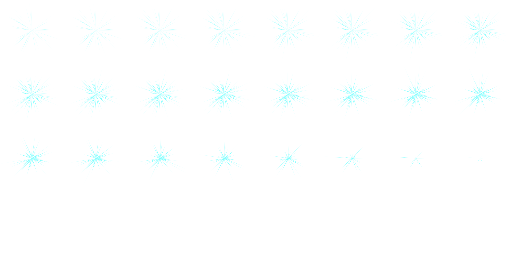
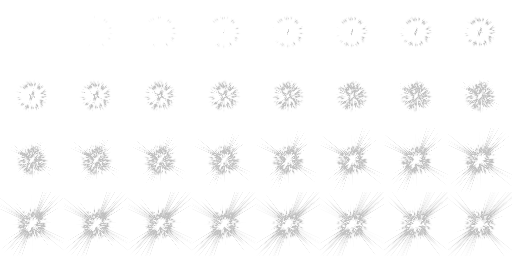
Updated the star animations to use the latest metro changes

diff --git a/models/star.rb b/models/star.rb
@@ -1,92 +1,67 @@
+module Metro
+  class Model
+
+    def create(model_name)
+      model_class = Metro::Model.model(model_name).constantize
+      mc = model_class.new
+      mc.scene = scene
+      mc.window = window
+      mc
+    end
+  end
+end
+
+
 class Star < Metro::Model
 
   property :position
   property :color
 
   class Forming < Metro::Model
-    property :animation, path: "implode.png", dimensions: Dimensions.of(64,64)
+    property :animation, path: "implode.png", dimensions: Dimensions.of(64,64), time_per_image: 25
     property :state, type: :text, default: "forming"
 
-    def start_time
-      @start_time ||= Gosu::milliseconds
+    def image
+      animation.image
     end
 
-    def current_time
-      Gosu::milliseconds
-    end
-
-    def lifetime
-      800
-    end
-    
     def completed?
-      (current_time - start_time) > lifetime
+      animation.complete?
     end
 
     def next
-      l = Living.new
-      l.window = window
-      l
+      create "Star::Living"
     end
-
-    def image
-      animation.image(start_time: start_time, image_time: 50)
-    end
-
   end
 
   class Living < Metro::Model
-    property :animation, path: "star3.png", dimensions: Dimensions.of(64,64)
+    property :animation, path: "living.png", dimensions: Dimensions.of(64,64), time_per_image: 100
     property :state, type: :text, default: "living"
 
-    def next
-      c = Collapsed.new
-      c.window = window
-      c
-    end
-    
-    def start_time
-      @start_time ||= Gosu::milliseconds
+    def image
+      animation.image
     end
 
-    def image
-      animation.image(start_time: start_time, image_time: 50)
+    def next
+      create "Star::Collapsed"
     end
-    
   end
 
   class Collapsed < Metro::Model
-    property :animation, path: "star-pickup.png", dimensions: Dimensions.of(64,64)
+    property :animation, path: "explode.png", dimensions: Dimensions.of(64,64), time_per_image: 25
     property :state, type: :text, default: "collapsed"
 
-    def start_time
-      @start_time ||= Gosu::milliseconds
-    end
-
-    def current_time
-      Gosu::milliseconds
-    end
-
-    def lifetime
-      750
+    def image
+      animation.image
     end
 
     def completed?
-      (current_time - start_time) > lifetime
-    end
-
-    def next_state
-      Dead
+      animation.complete?
     end
 
     def next
-      next_state.new
+      create "Star::Dead"
     end
-
-    def image
-      animation.image(start_time: start_time, image_time: 25)
-    end
-
   end
 
   class Dead < Metro::Model
@@ -99,20 +74,14 @@ class Star < Metro::Model
     def next
       raise "The World Is Collpasing!"
     end
-
   end
 
-  include ModelWithAnimation
-
   def show
-    f = Forming.new
-    f.window = window
-    @state = f
+    @state = create "Star::Forming"
   end
 
   def current_state
-    @state = @state.next if @state.completed?
-    @state
+    @state.completed? ? @state = @state.next : @state
   end
 
   def state
@@ -120,8 +89,10 @@ class Star < Metro::Model
   end
 
   def collapse
-    @state = @state.next if state == "living"
+    @state = @state.next if @state.state == "living"
   end
+
+  include ImagePlacementHelpers
 
   def draw
     image = current_state.image

diff --git a/lib/metro_animation.rb b/lib/metro_animation.rb
@@ -5,27 +5,26 @@ module Metro
   # the additional information on the path, height, width, and tileability.
   #
   class Animation
-    def time_per_image
-      50
-    end
-
-    def current_time
-      Gosu::milliseconds
-    end
-
-    def current_image_index(start_time,time_per_image)
-      ((current_time - start_time) / time_per_image) % images.size
-    end
-
-    #
-    # @return a Gosu::Image to be displayed in a animation sequence.
-    #
-    def image(options = {})
-      start_time = options.fetch(:start_time,current_time)
-      time_spent_per_image = options.fetch(:image_time,time_per_image)
-
-      images[current_image_index(start_time,time_spent_per_image)]
-    end
+    # def time_per_image
+    #   @time_per_image ||= 50
+    # end
+    # 
+    # def current_time
+    #   Gosu::milliseconds
+    # end
+    # 
+    # def current_image_index(start_time,time_per_image)
+    #   ((current_time - start_time) / time_per_image) % images.size
+    # end
+    # 
+    # #
+    # # @return a Gosu::Image to be displayed in a animation sequence.
+    # #
+    # def image(options = {})
+    #   start_time = options.fetch(:start_time,current_time)
+    #   time_spent_per_image = options.fetch(:image_time,time_per_image)
+    #   images[current_image_index(start_time,time_spent_per_image)]
+    # end
 
   end
 end

diff --git a/models/background_space.rb b/models/background_space.rb
@@ -1,16 +1,13 @@
 class BackgroundSpace < Metro::Model
   property :position
-  property :animation, path: "space.png", dimensions: Dimensions.of(256,256), tileable: true
+  property :animation, path: "space.png", dimensions: Dimensions.of(256,256),
+    tileable: true, time_per_image: 50
   property :color
 
-  include ModelWithAnimation
-
-  def time_per_image
-    100
-  end
+  include ImagePlacementHelpers
 
   def draw
-    image = animation.image(start_time: start_time, image_time: time_per_image)
+    image = animation.image
     image.draw(middle_x(image),middle_y(image), 1, 1, 1, color, :add)
   end
 

diff --git a/scenes/title_transition_scene.rb b/scenes/title_transition_scene.rb
@@ -1,9 +1,9 @@
 class TitleTransitionScene < GameScene
 
-  draw :logo, model: 'metro::models::image', from: :previous_scene
-  draw :title, model: 'metro::models::label', from: :previous_scene
+  draw :logo, model: 'metro::ui::image', from: :previous_scene
+  draw :title, model: 'metro::ui::label', from: :previous_scene
 
-  draw :galaxy, model: 'metro::models::image', from: :previous_scene
+  draw :galaxy, model: 'metro::ui::image', from: :previous_scene
   draw :background_space1, model: 'background_space', from: :previous_scene
   draw :background_space2, model: 'background_space', from: :previous_scene
 

diff --git a/models/light_beam.rb b/models/light_beam.rb
@@ -1,18 +1,14 @@
 class LightBeam < Metro::Model
   property :position
   property :animation, path: "beam-of-light.png",
-    dimensions: Dimensions.of(128,128)
+    dimensions: Dimensions.of(128,128), time_per_image: 100
   property :color
   property :scale, default: Scale.to(2.5,2.5)
 
-  include ModelWithAnimation
-
-  def time_per_image
-    100
-  end
+  include ImagePlacementHelpers
 
   def draw
-    image = animation.image(start_time: start_time, image_time: time_per_image)
+    image = animation.image
     image.draw(middle_x(image),middle_y(image), 1, x_factor, y_factor, color, :add)
   end
 end

diff --git a/models/star_collection_monitor.rb b/models/star_collection_monitor.rb
@@ -4,8 +4,8 @@ class StarCollectionMonitor < Metro::Model
 
   def update
     living_stars = star_generator.living_stars
-
     living_stars.find_all {|star| Gosu.distance(player.x, player.y, star.x, star.y) < 35 }.each do |star|
+      
       star.collapse
       notification :star_collected
     end

diff --git a/lib/image_placement_helpers.rb b/lib/image_placement_helpers.rb
@@ -1,8 +1,4 @@
-module ModelWithAnimation
-
-  def start_time
-    @start_time ||= Gosu::milliseconds
-  end
+module ImagePlacementHelpers
 
   def middle_x(image)
     x - image.width / 2.0
